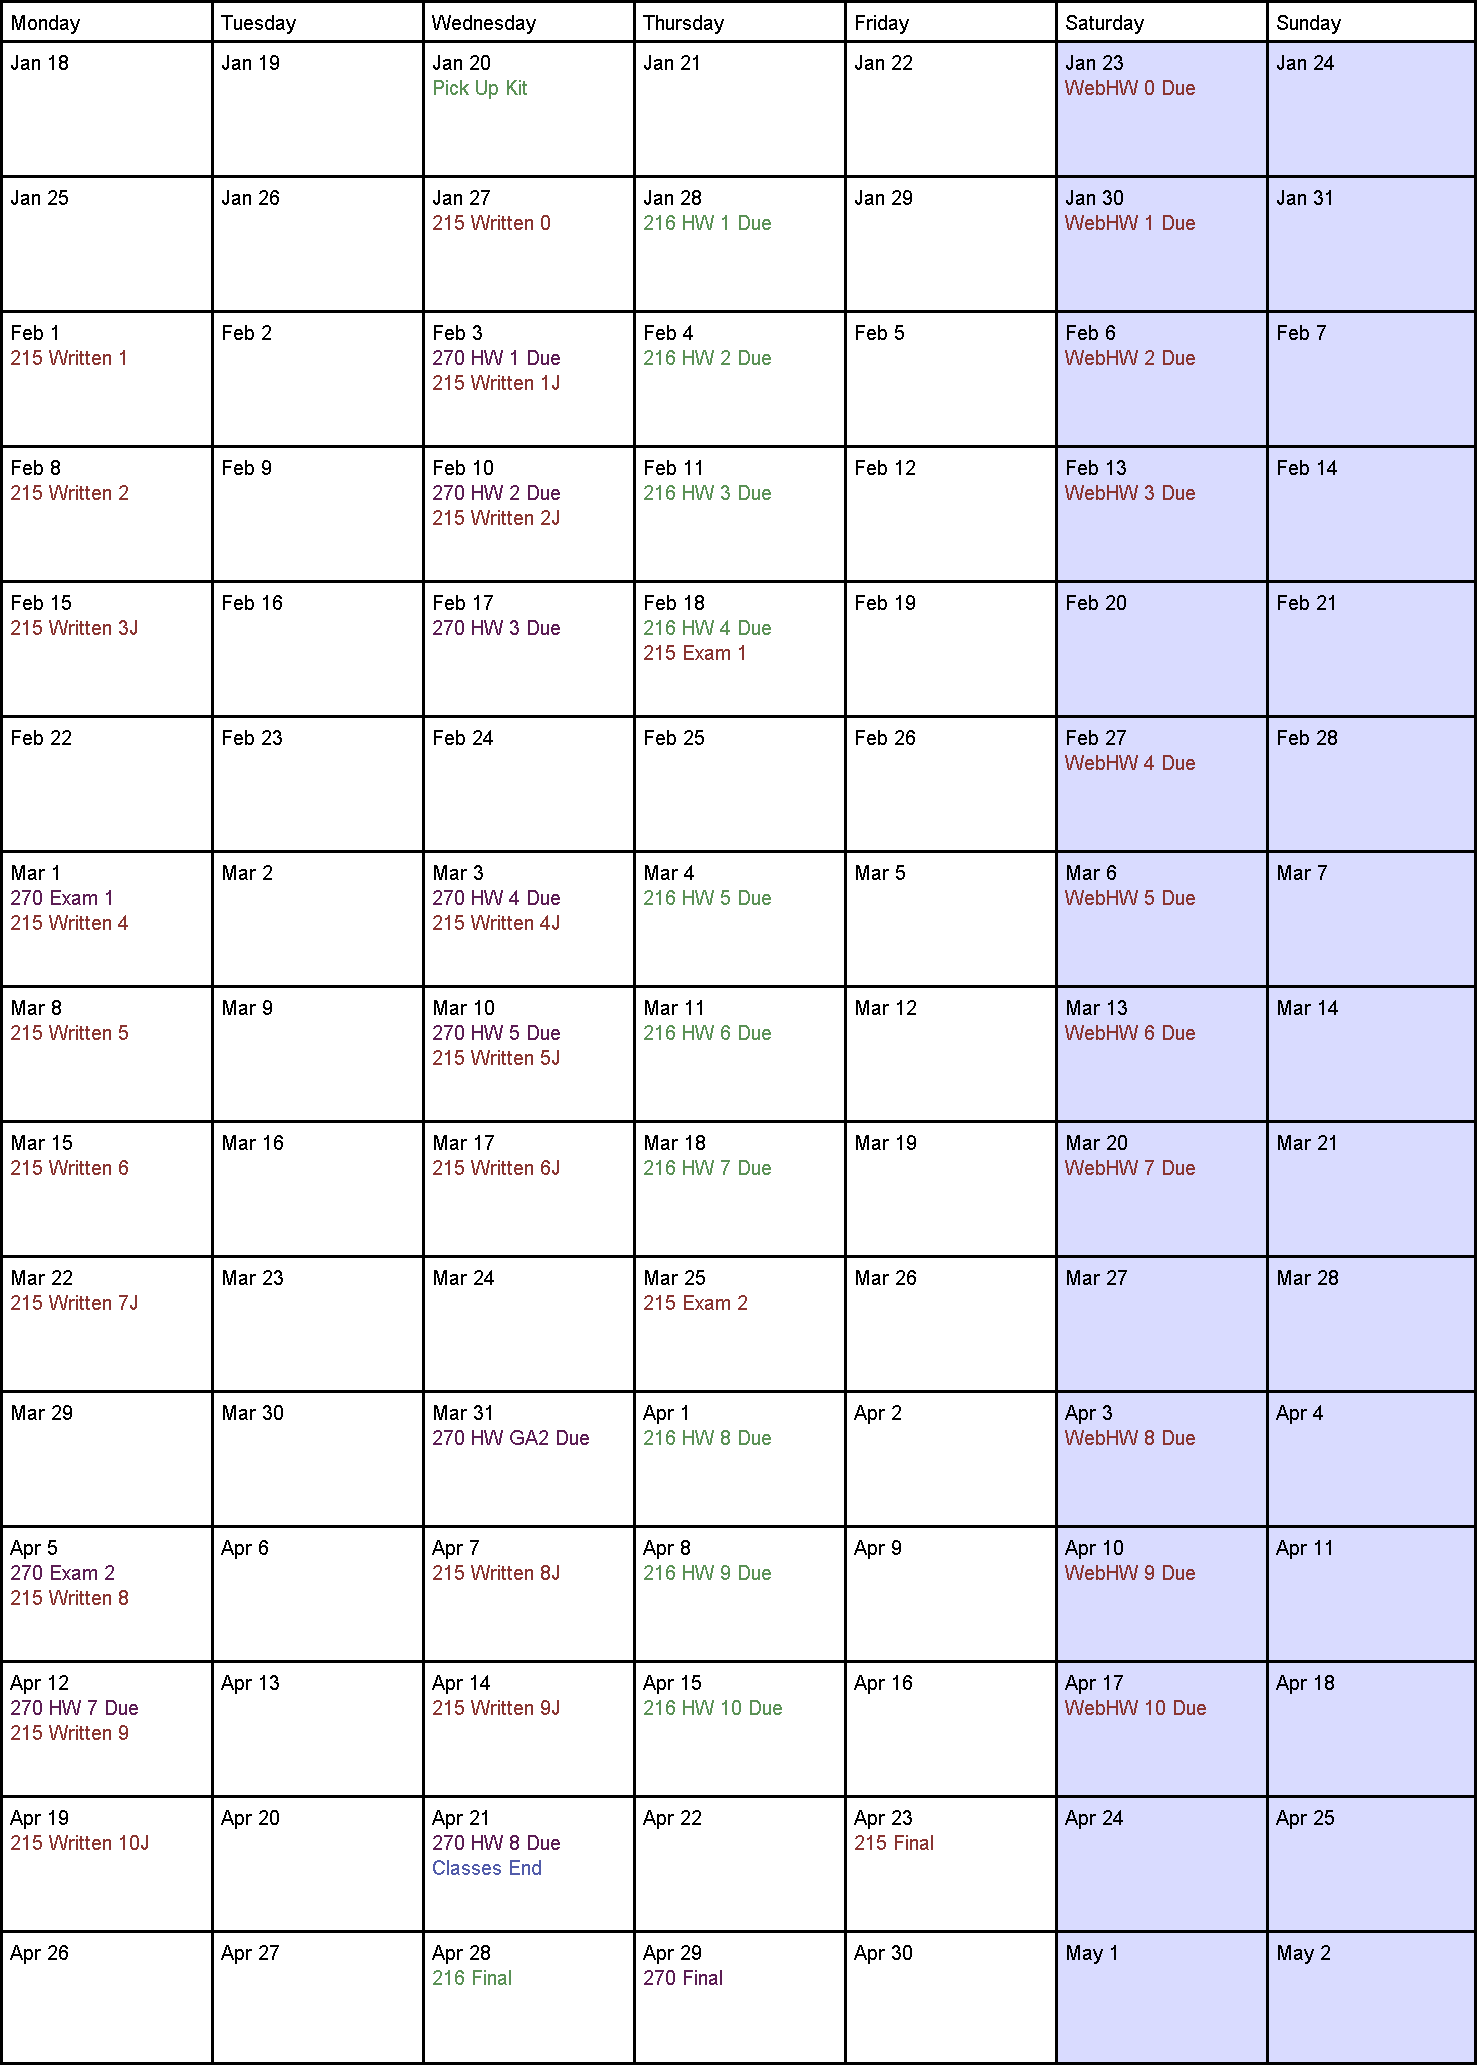
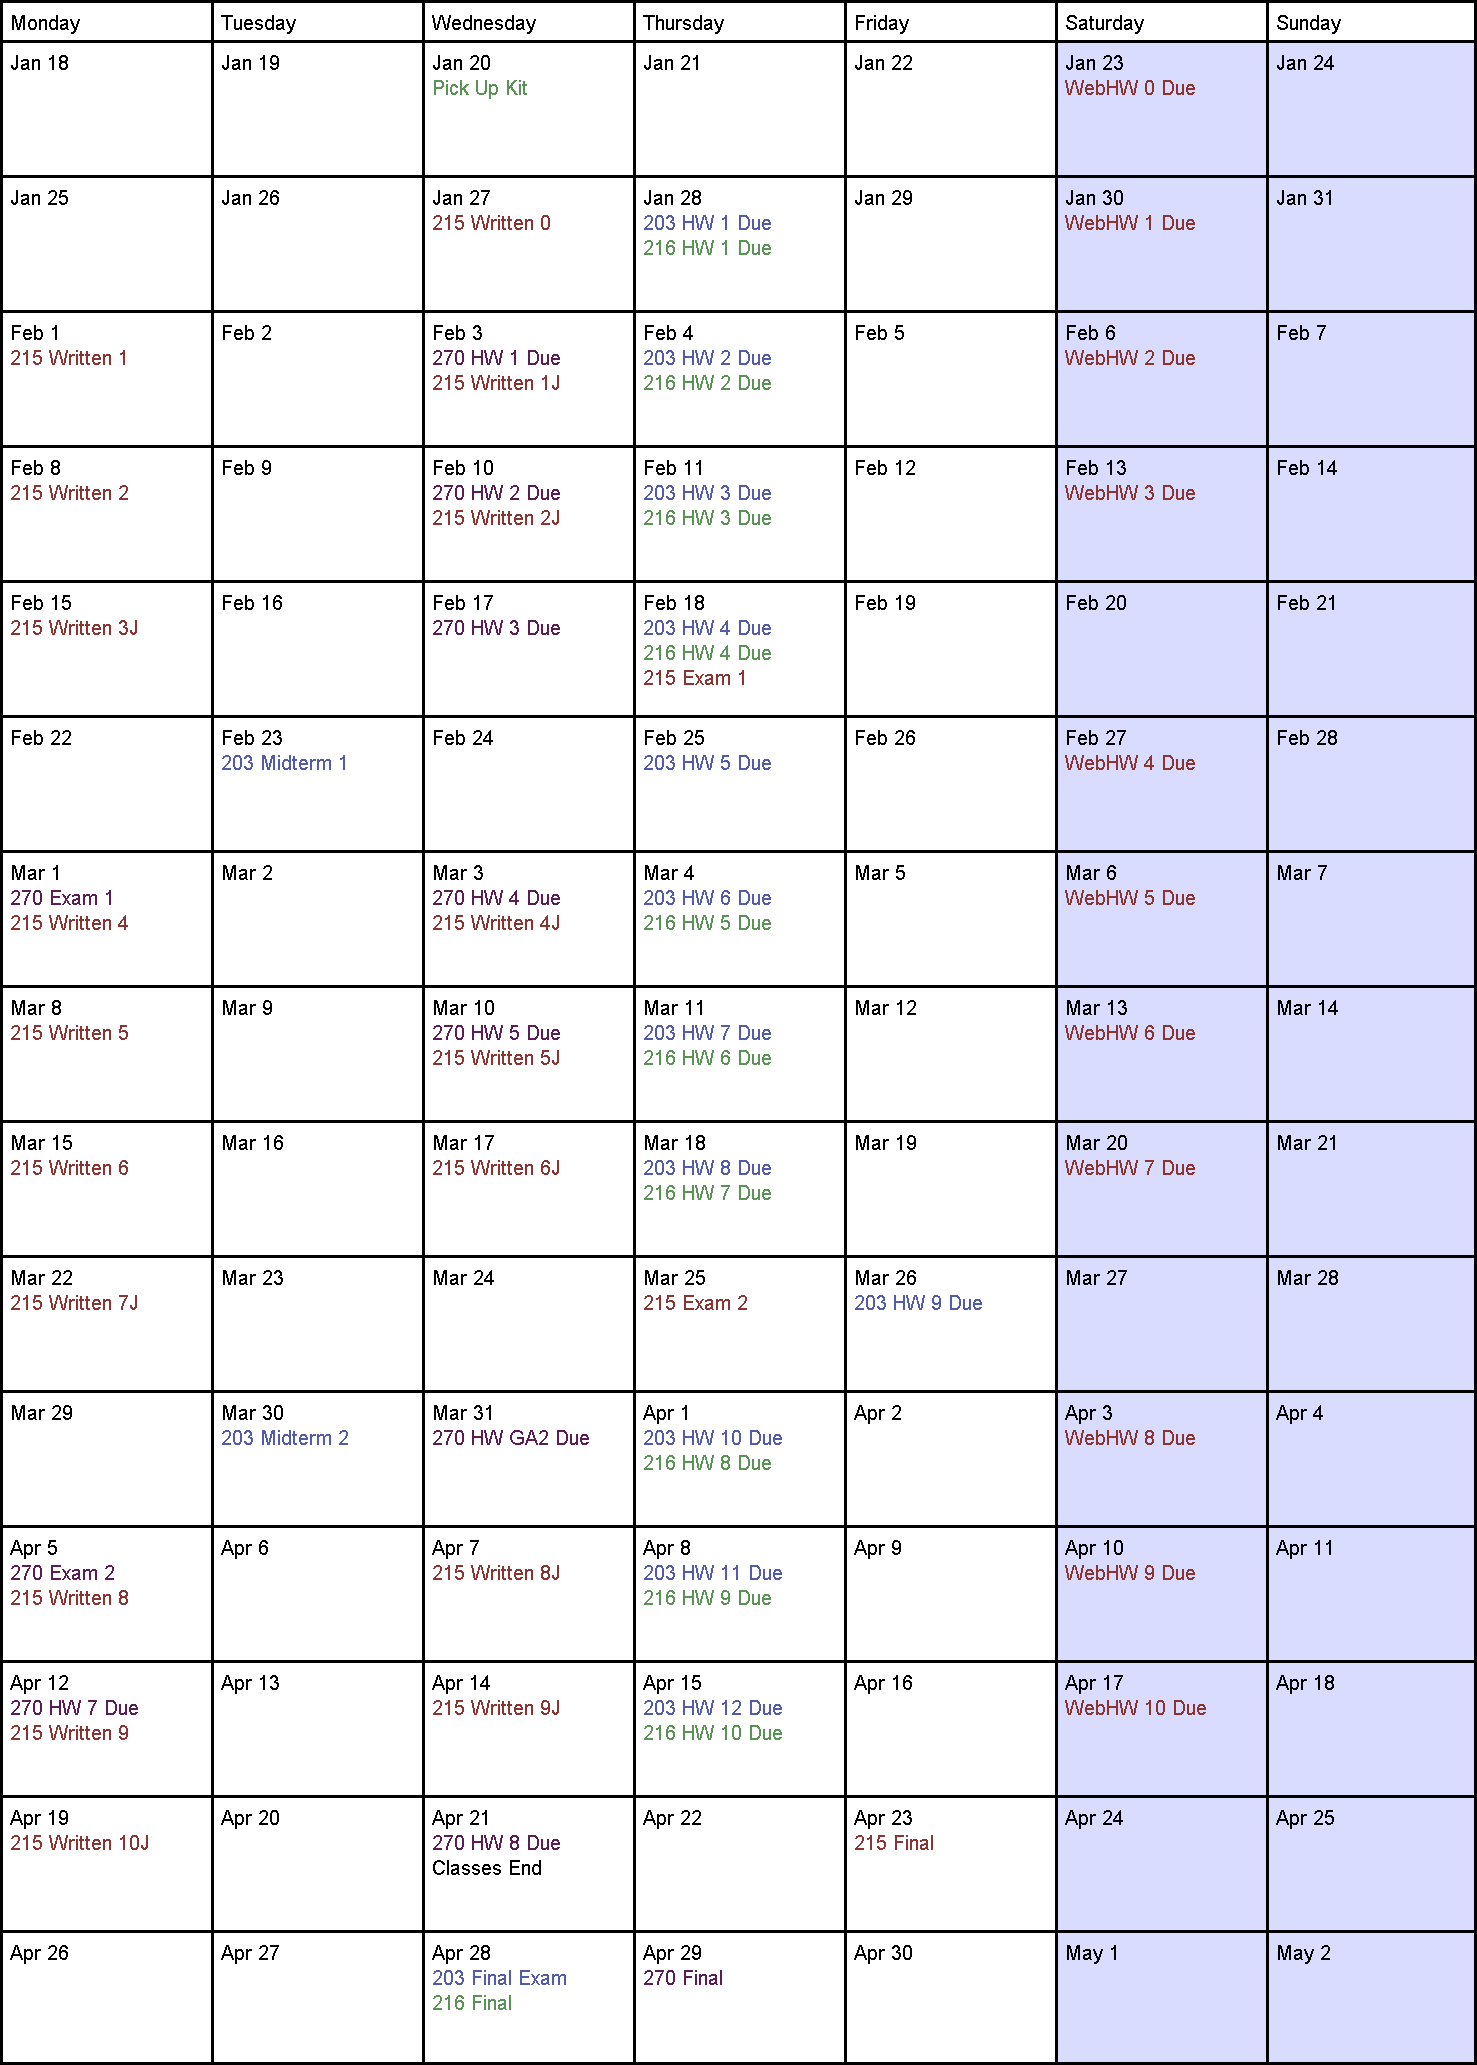
203 added, this semester looks not fun

diff --git a/src/Calendar.java b/src/Calendar.java
@@ -84,6 +84,24 @@ public class Calendar extends Applet implements Runnable, KeyListener {
     //           ADD EVENTS TO THE CALENDAR
     public void addEvents(){
         addWeeklyEvents();
+
+
+        addEvent("203 HW 1 Due", getDayofYear(28,1), 1);
+        addEvent("203 HW 2 Due", getDayofYear(4,2), 1);
+        addEvent("203 HW 3 Due", getDayofYear(11,2), 1);
+        addEvent("203 HW 4 Due", getDayofYear(18,2), 1);
+        addEvent("203 HW 5 Due", getDayofYear(25,2), 1);
+        addEvent("203 HW 6 Due", getDayofYear(4,3), 1);
+        addEvent("203 HW 7 Due", getDayofYear(11,3), 1);
+        addEvent("203 HW 8 Due", getDayofYear(18,3), 1);
+        addEvent("203 HW 9 Due", getDayofYear(26,3), 1);
+        addEvent("203 HW 10 Due", getDayofYear(1,4), 1);
+        addEvent("203 HW 11 Due", getDayofYear(8,4), 1);
+        addEvent("203 HW 12 Due", getDayofYear(15,4), 1);
+        addEvent("203 Midterm 1", getDayofYear(23,2), 1);
+        addEvent("203 Midterm 2", getDayofYear(30,3), 1);
+        addEvent("203 Final Exam", getDayofYear(28,4), 1);
+
         addEvent("Pick Up Kit", getDayofYear(20,1), 3);
         addEvent("216 HW 1 Due", getDayofYear(28,1), 3);
         addEvent("216 HW 2 Due", getDayofYear(4,2), 3);
@@ -110,7 +128,7 @@ public class Calendar extends Applet implements Runnable, KeyListener {
         addEvent("270 Exam 1", getDayofYear(1,3), 4);
         addEvent("270 Exam 2", getDayofYear(5,4), 4);
 
-        addEvent("Classes End", getDayofYear(21,4), 1);
+        addEvent("Classes End", getDayofYear(21,4), 0);
         addEvent("WebHW 0 Due", getDayofYear(23,1), 2);
         addEvent("WebHW 1 Due", getDayofYear(30,1), 2);
         addEvent("WebHW 2 Due", getDayofYear(6,2), 2);
